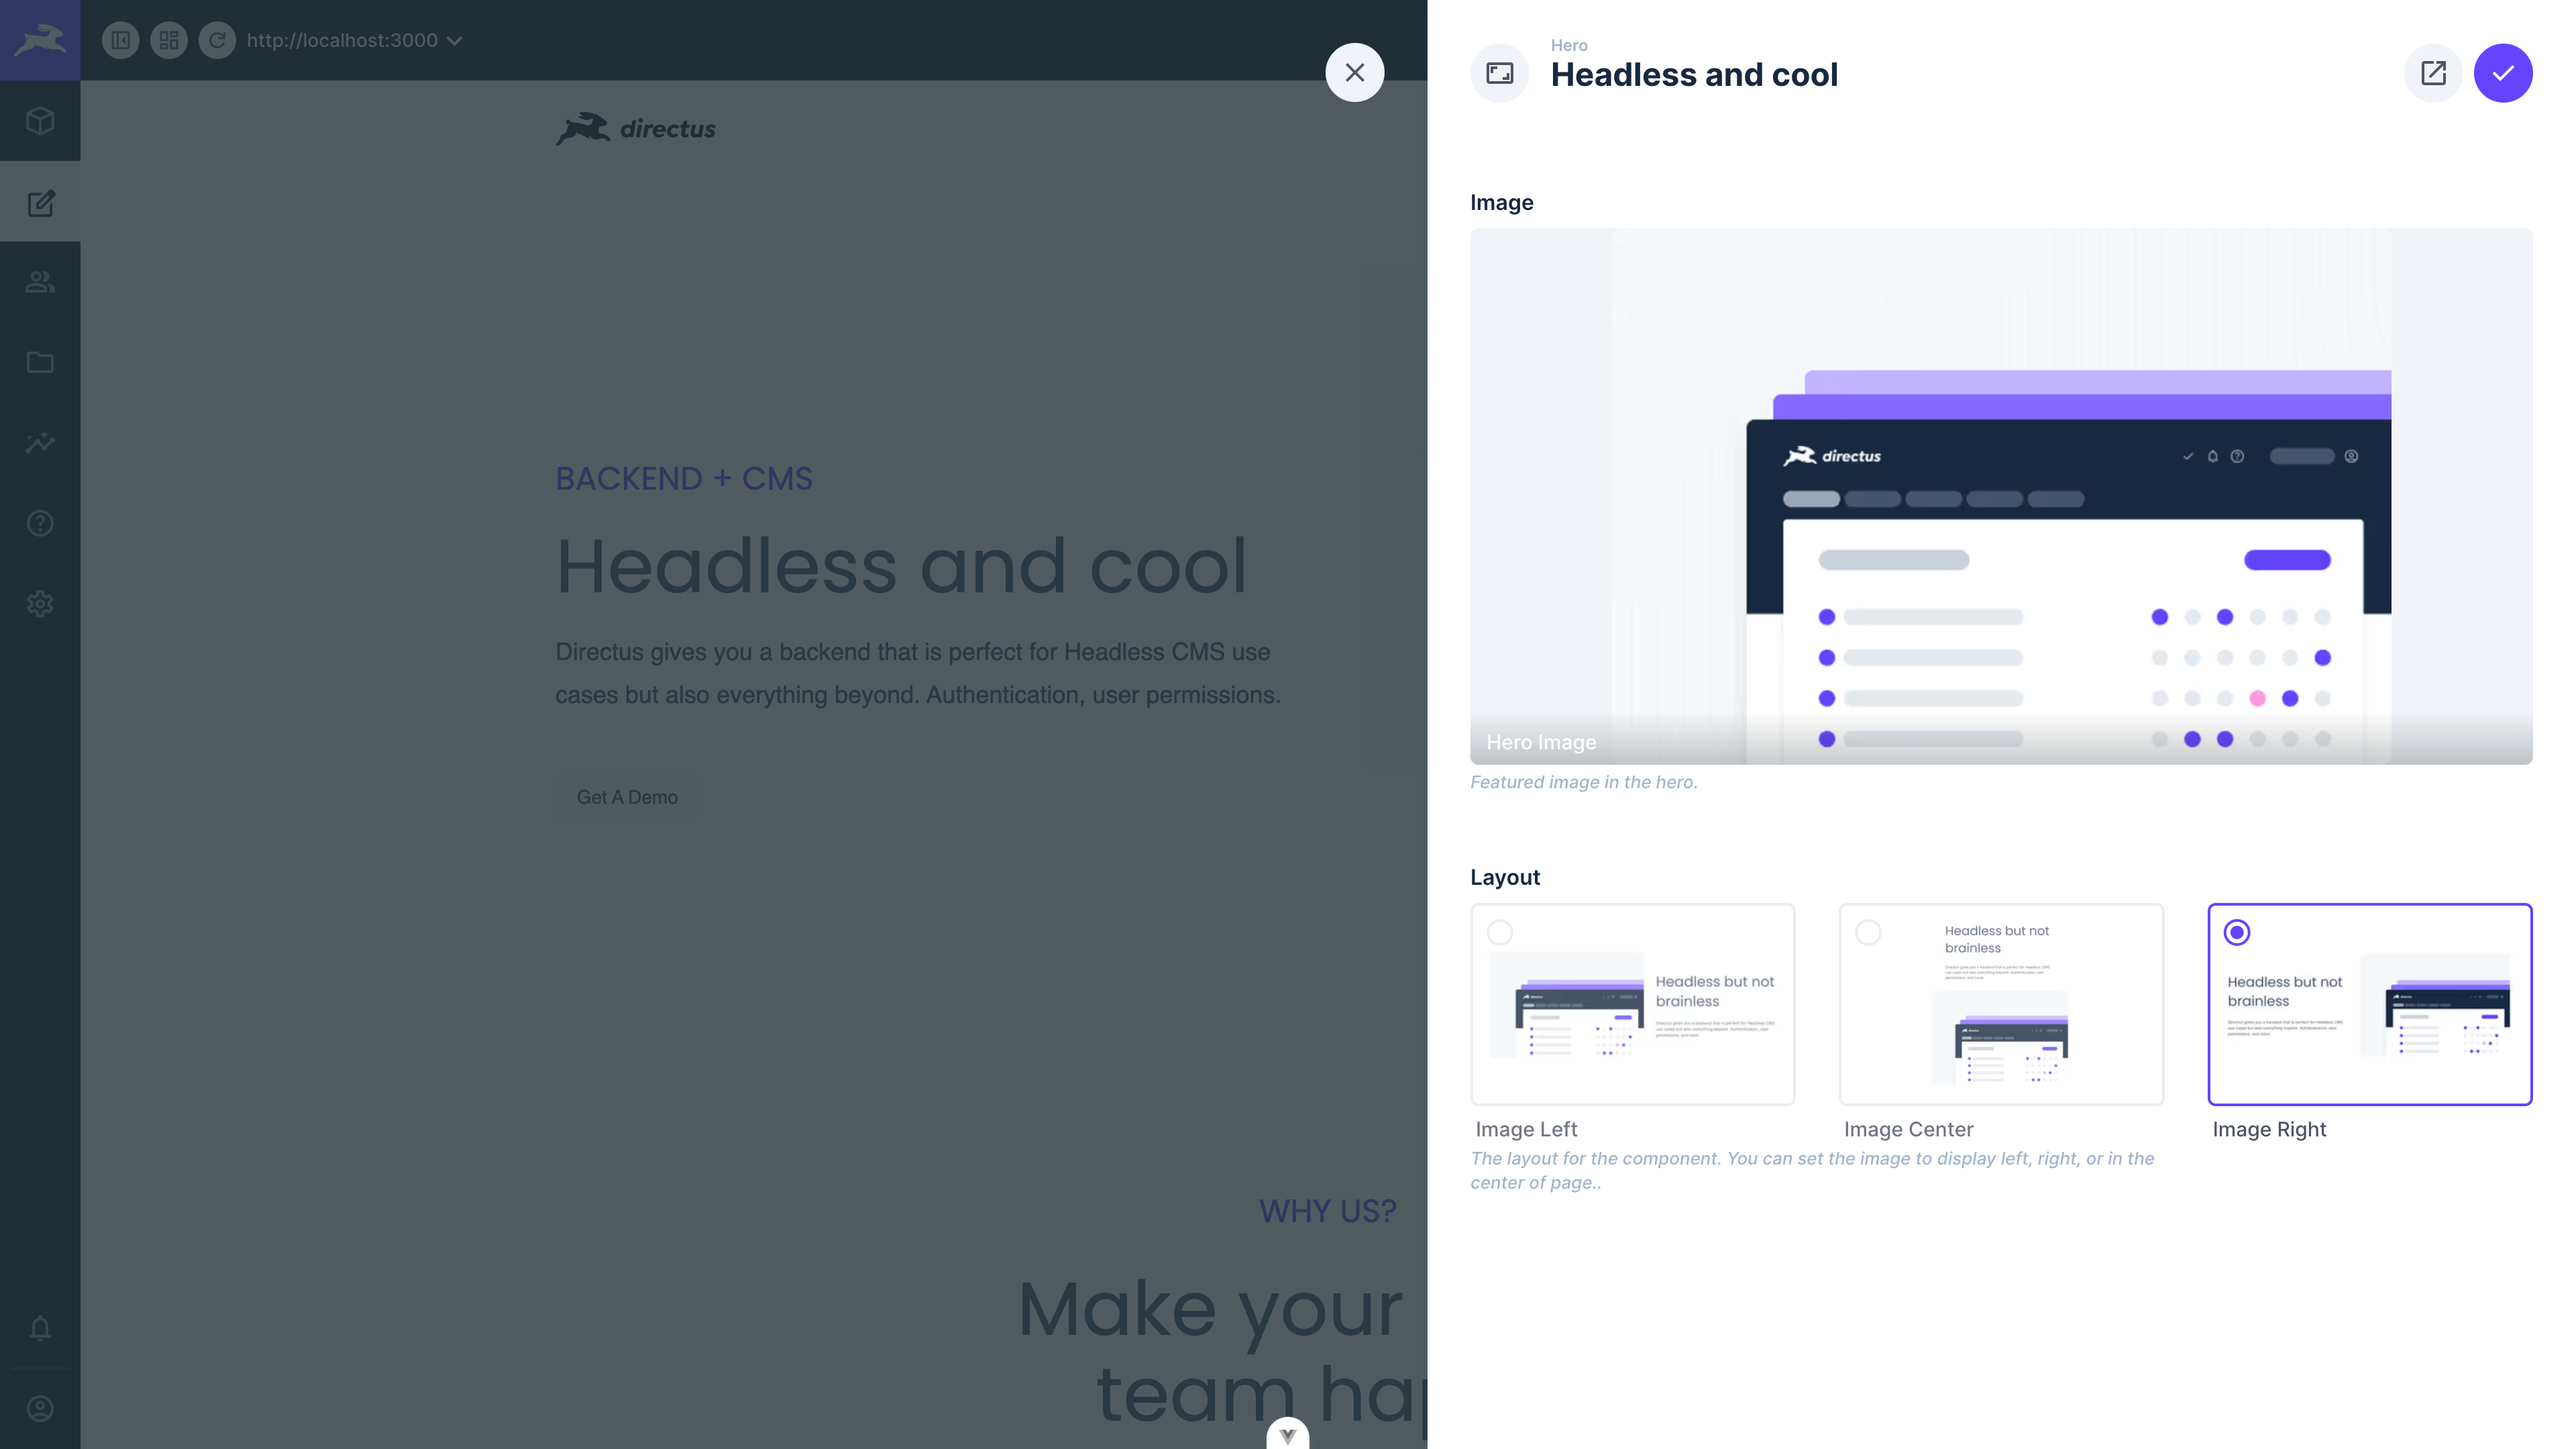
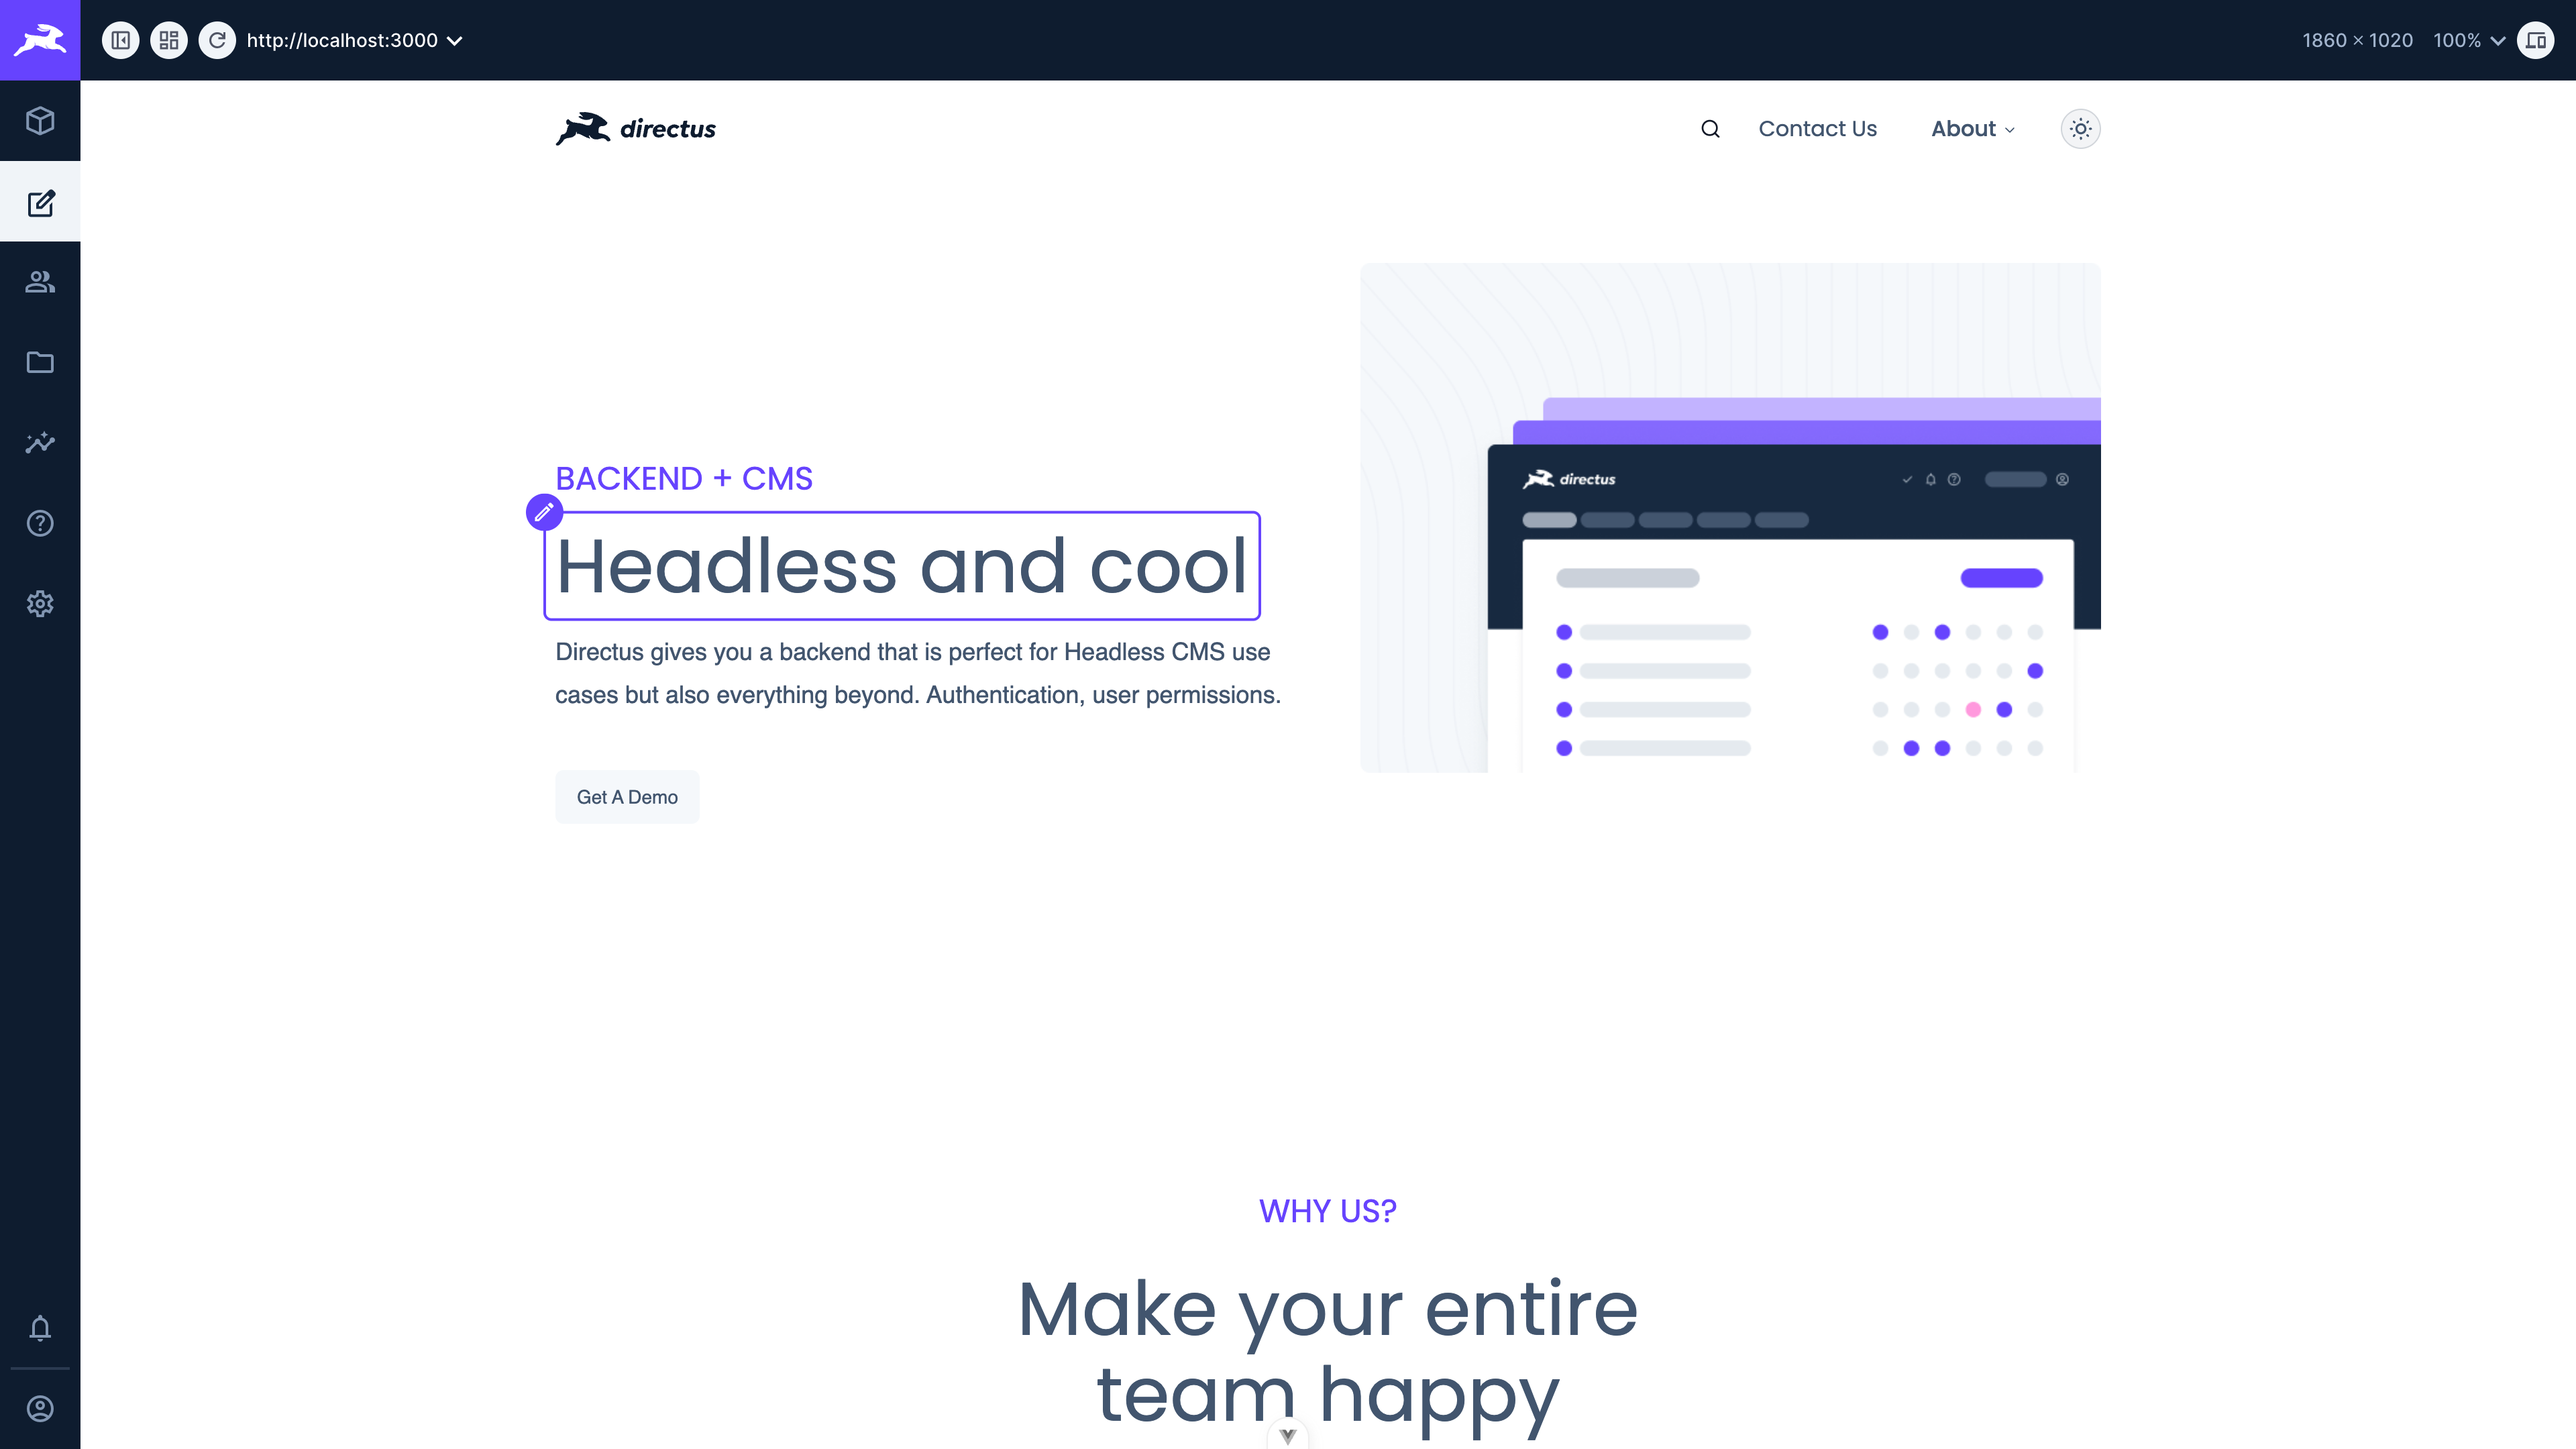
Update image

diff --git a/content/guides/2.content/8.visual-editor/2.studio-module.md b/content/guides/2.content/8.visual-editor/2.studio-module.md
@@ -5,7 +5,7 @@ description: Learn how to edit your website’s content in place from within the
 
 The visual editor module enables content editors to render their website within the Directus Studio, navigate around within the site, and make edits to content in place.
 
-![An image of the visual editor with the drawer open on a page and an input being edited in a drawer](/img/visual_editor_drawer_editing.png)
+![An image of the visual editor with the drawer open on a page and an input being hovered over](/img/visual_editor_drawer_editing.png)
 
 ## Configure Visual Editor URLs
 
